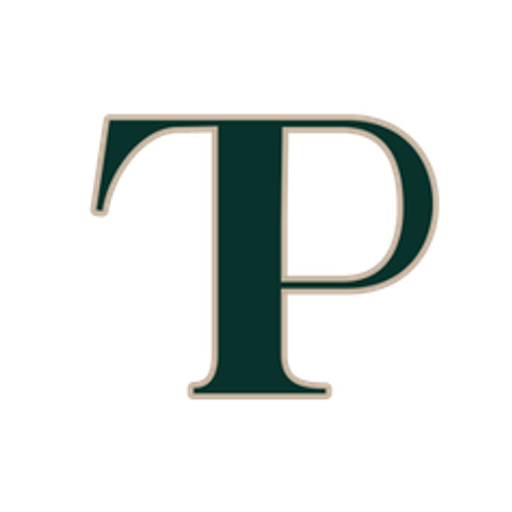
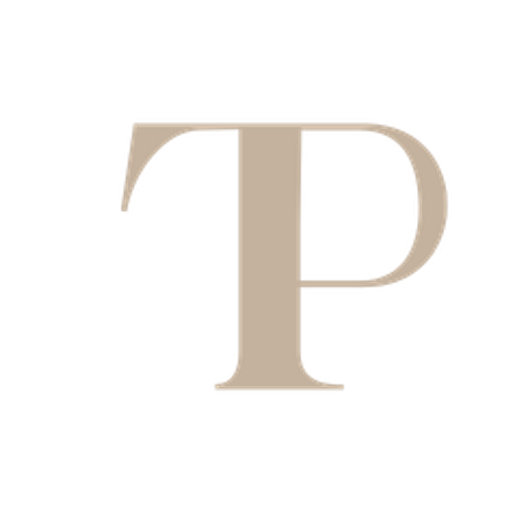
Restrict Order of Merit, Results and Players to logged-in members
Logged-out visitors now see only Tour Schedule (labeled "Sign Up to
Join") and About in the nav. Order of Merit, Results and Players
pages require login, and the homepage's Order of Merit / Results
preview sections show a login/join prompt instead of real data
when logged out.

Also updates the site logo to the latest version supplied and
regenerates the favicon from it.

Changed region(s): [[0.1562, 0.2188, 0.875, 0.7812]]

diff --git a/components/site/homepage/latest-results.tsx b/components/site/homepage/latest-results.tsx
@@ -5,7 +5,15 @@ import { formatEventDateLong } from "@/lib/format";
 
 const ORDINALS = ["1st", "2nd", "3rd"];
 
-export function LatestResults({ event, results }: { event: TourEvent | null; results: EventResult[] }) {
+export function LatestResults({
+  event,
+  results,
+  isLoggedIn,
+}: {
+  event: TourEvent | null;
+  results: EventResult[];
+  isLoggedIn: boolean;
+}) {
   if (!event) {
     return (
       <section className="py-20 lg:py-28">
@@ -25,7 +33,19 @@ export function LatestResults({ event, results }: { event: TourEvent | null; res
         </h2>
         <p className="mt-2 text-tp-offwhite/50">{formatEventDateLong(event.event_date)}</p>
 
-        {results.length === 0 ? (
+        {!isLoggedIn ? (
+          <div className="mt-8 border border-white/10 bg-tp-dark p-10 text-center">
+            <p className="text-tp-offwhite/60">Results are visible to TP Tour members.</p>
+            <div className="mt-5 flex justify-center gap-3">
+              <LinkButton href="/login" variant="outline" size="sm">
+                Login
+              </LinkButton>
+              <LinkButton href="/register" variant="gold" size="sm">
+                Join TP Tour
+              </LinkButton>
+            </div>
+          </div>
+        ) : results.length === 0 ? (
           <p className="mt-8 text-tp-offwhite/50">Results are being finalised.</p>
         ) : (
           <div className="mt-8 grid gap-4 sm:grid-cols-3">
@@ -47,11 +67,13 @@ export function LatestResults({ event, results }: { event: TourEvent | null; res
           </div>
         )}
 
-        <div className="mt-8">
-          <LinkButton href={`/results/${event.slug}`} variant="outline" size="sm">
-            Full Results
-          </LinkButton>
-        </div>
+        {isLoggedIn && (
+          <div className="mt-8">
+            <LinkButton href={`/results/${event.slug}`} variant="outline" size="sm">
+              Full Results
+            </LinkButton>
+          </div>
+        )}
       </Container>
     </section>
   );

diff --git a/components/site/homepage/oom-preview.tsx b/components/site/homepage/oom-preview.tsx
@@ -5,7 +5,7 @@ import type { OrderOfMeritPoint } from "@/lib/types";
 import { formatHandicap, movementIndicator } from "@/lib/format";
 import { clsx } from "clsx";
 
-export function OomPreview({ standings }: { standings: OrderOfMeritPoint[] }) {
+export function OomPreview({ standings, isLoggedIn }: { standings: OrderOfMeritPoint[]; isLoggedIn: boolean }) {
   return (
     <section className="border-y border-white/10 bg-tp-dark py-20 lg:py-28">
       <Container>
@@ -16,12 +16,26 @@ export function OomPreview({ standings }: { standings: OrderOfMeritPoint[] }) {
               The Race to Become TP Tour Champion
             </h2>
           </div>
-          <LinkButton href="/order-of-merit" variant="outline" size="sm">
-            View Full Standings
-          </LinkButton>
+          {isLoggedIn && (
+            <LinkButton href="/order-of-merit" variant="outline" size="sm">
+              View Full Standings
+            </LinkButton>
+          )}
         </div>
 
-        {standings.length === 0 ? (
+        {!isLoggedIn ? (
+          <div className="border border-white/10 bg-tp-black p-10 text-center">
+            <p className="text-tp-offwhite/60">Standings are visible to TP Tour members.</p>
+            <div className="mt-5 flex justify-center gap-3">
+              <LinkButton href="/login" variant="outline" size="sm">
+                Login
+              </LinkButton>
+              <LinkButton href="/register" variant="gold" size="sm">
+                Join TP Tour
+              </LinkButton>
+            </div>
+          </div>
+        ) : standings.length === 0 ? (
           <p className="text-tp-offwhite/50">Standings will appear once the season is underway.</p>
         ) : (
           <div className="overflow-x-auto">

diff --git a/app/(site)/page.tsx b/app/(site)/page.tsx
@@ -17,14 +17,17 @@ import {
   getPartners,
   getSiteContent,
 } from "@/lib/data/site";
+import { getCurrentProfile } from "@/lib/data/current-user";
 
 export default async function HomePage() {
   const season = await getCurrentSeason();
+  const profile = await getCurrentProfile();
+  const isLoggedIn = !!profile;
 
   const [nextEvent, scheduleEvents, standings, latestEvent, partners, hero, about, stats] = await Promise.all([
     getNextEvent(),
     season ? getSeasonEvents(season.id) : Promise.resolve([]),
-    season ? getOrderOfMerit(season.id, 5) : Promise.resolve([]),
+    isLoggedIn && season ? getOrderOfMerit(season.id, 5) : Promise.resolve([]),
     getLatestCompletedEvent(),
     getPartners(),
     getSiteContent<{ eyebrow: string; heading: string; subheading: string }>("homepage_hero"),
@@ -35,7 +38,7 @@ export default async function HomePage() {
   ]);
 
   const capacity = nextEvent ? await getEventCapacity(nextEvent.id) : null;
-  const results = latestEvent ? await getEventResults(latestEvent.id) : [];
+  const results = isLoggedIn && latestEvent ? await getEventResults(latestEvent.id) : [];
 
   return (
     <>
@@ -49,8 +52,8 @@ export default async function HomePage() {
       />
       <NextOnTour event={nextEvent} capacity={capacity} />
       {scheduleEvents.length > 0 && <ScheduleStrip events={scheduleEvents} seasonName={season?.name ?? ""} />}
-      <OomPreview standings={standings} />
-      <LatestResults event={latestEvent} results={results} />
+      <OomPreview standings={standings} isLoggedIn={isLoggedIn} />
+      <LatestResults event={latestEvent} results={results} isLoggedIn={isLoggedIn} />
       <AboutStats about={about} stats={stats} />
       <PartnersStrip partners={partners} />
       <JoinCta />

diff --git a/components/site/nav.tsx b/components/site/nav.tsx
@@ -9,15 +9,22 @@ import { Menu, X } from "lucide-react";
 import { Container } from "@/components/ui/container";
 import { LinkButton } from "@/components/ui/button";
 
-const links = [
-  { href: "/", label: "Home" },
-  { href: "/tour-schedule", label: "Tour Schedule" },
-  { href: "/order-of-merit", label: "Order of Merit" },
-  { href: "/results", label: "Results" },
-  { href: "/players", label: "Players" },
-  { href: "/about", label: "About" },
-  { href: "/partners", label: "Partners" },
-];
+function getLinks(isLoggedIn: boolean) {
+  if (isLoggedIn) {
+    return [
+      { href: "/tour-schedule", label: "Tour Schedule" },
+      { href: "/order-of-merit", label: "Order of Merit" },
+      { href: "/results", label: "Results" },
+      { href: "/players", label: "Players" },
+      { href: "/about", label: "About" },
+      { href: "/partners", label: "Partners" },
+    ];
+  }
+  return [
+    { href: "/tour-schedule", label: "Sign Up to Join" },
+    { href: "/about", label: "About" },
+  ];
+}
 
 export function Nav({
   isLoggedIn,
@@ -45,6 +52,8 @@ export function Nav({
     return () => window.removeEventListener("scroll", onScroll);
   }, []);
 
+  const links = getLinks(isLoggedIn);
+
   return (
     <header
       className={clsx(
@@ -58,7 +67,7 @@ export function Nav({
         </Link>
 
         <nav className="hidden items-center gap-8 lg:flex">
-          {links.slice(1).map((link) => (
+          {links.map((link) => (
             <Link
               key={link.href}
               href={link.href}

diff --git a/app/(site)/order-of-merit/page.tsx b/app/(site)/order-of-merit/page.tsx
@@ -1,7 +1,9 @@
 import Link from "next/link";
 import { clsx } from "clsx";
 import { Container } from "@/components/ui/container";
+import { MemberGate } from "@/components/site/member-gate";
 import { getAllSeasons, getCurrentSeason, getSeasonByName, getOrderOfMerit } from "@/lib/data/site";
+import { getCurrentProfile } from "@/lib/data/current-user";
 import { formatHandicap, movementIndicator } from "@/lib/format";
 import type { Metadata } from "next";
 
@@ -16,6 +18,9 @@ export default async function OrderOfMeritPage({
   searchParams: Promise<{ season?: string }>;
 }) {
   const params = await searchParams;
+  const profile = await getCurrentProfile();
+  if (!profile) return <MemberGate title="Order of Merit" next="/order-of-merit" />;
+
   const seasons = await getAllSeasons();
   const season = params.season ? await getSeasonByName(params.season) : await getCurrentSeason();
   const standings = season ? await getOrderOfMerit(season.id) : [];

diff --git a/app/(site)/results/[slug]/page.tsx b/app/(site)/results/[slug]/page.tsx
@@ -2,7 +2,9 @@ import Link from "next/link";
 import { notFound } from "next/navigation";
 import { clsx } from "clsx";
 import { Container } from "@/components/ui/container";
+import { MemberGate } from "@/components/site/member-gate";
 import { getEventBySlug, getEventResults } from "@/lib/data/site";
+import { getCurrentProfile } from "@/lib/data/current-user";
 import { formatEventDateLong, formatHandicap, tbc } from "@/lib/format";
 import type { Metadata } from "next";
 
@@ -14,6 +16,9 @@ export async function generateMetadata({ params }: { params: Promise<{ slug: str
 
 export default async function EventResultsPage({ params }: { params: Promise<{ slug: string }> }) {
   const { slug } = await params;
+  const profile = await getCurrentProfile();
+  if (!profile) return <MemberGate title="Tour Results" next={`/results/${slug}`} />;
+
   const event = await getEventBySlug(slug);
   if (!event) notFound();
 

diff --git a/components/site/member-gate.tsx b/components/site/member-gate.tsx
@@ -1,0 +1,21 @@
+import { Container } from "@/components/ui/container";
+import { LinkButton } from "@/components/ui/button";
+
+export function MemberGate({ title, next }: { title: string; next: string }) {
+  return (
+    <section className="flex min-h-[60vh] items-center py-20">
+      <Container className="max-w-md text-center">
+        <h1 className="font-heading text-3xl font-bold uppercase text-tp-offwhite">{title}</h1>
+        <p className="mt-4 text-tp-offwhite/60">This is available to TP Tour members.</p>
+        <div className="mt-6 flex justify-center gap-3">
+          <LinkButton href={`/login?next=${next}`} variant="outline">
+            Login
+          </LinkButton>
+          <LinkButton href="/register" variant="gold">
+            Join TP Tour
+          </LinkButton>
+        </div>
+      </Container>
+    </section>
+  );
+}

diff --git a/app/(site)/results/page.tsx b/app/(site)/results/page.tsx
@@ -1,6 +1,8 @@
 import Link from "next/link";
 import { Container } from "@/components/ui/container";
+import { MemberGate } from "@/components/site/member-gate";
 import { getCurrentSeason, getCompletedEvents } from "@/lib/data/site";
+import { getCurrentProfile } from "@/lib/data/current-user";
 import { formatEventDateLong, tbc } from "@/lib/format";
 import type { Metadata } from "next";
 
@@ -10,6 +12,9 @@ export const metadata: Metadata = {
 };
 
 export default async function ResultsPage() {
+  const profile = await getCurrentProfile();
+  if (!profile) return <MemberGate title="Tour Results" next="/results" />;
+
   const season = await getCurrentSeason();
   const events = await getCompletedEvents(season?.id);
 
